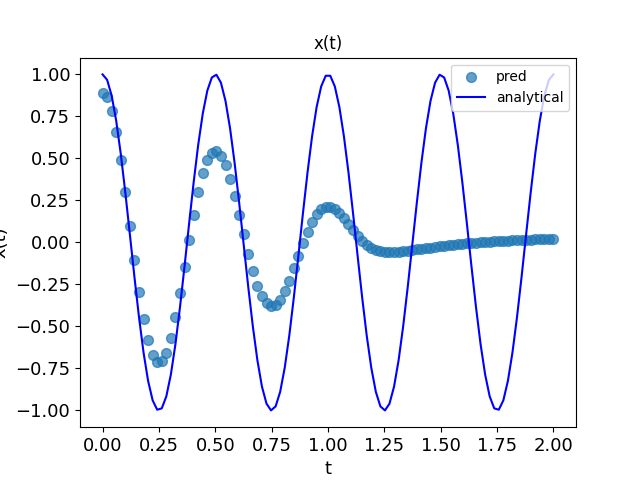
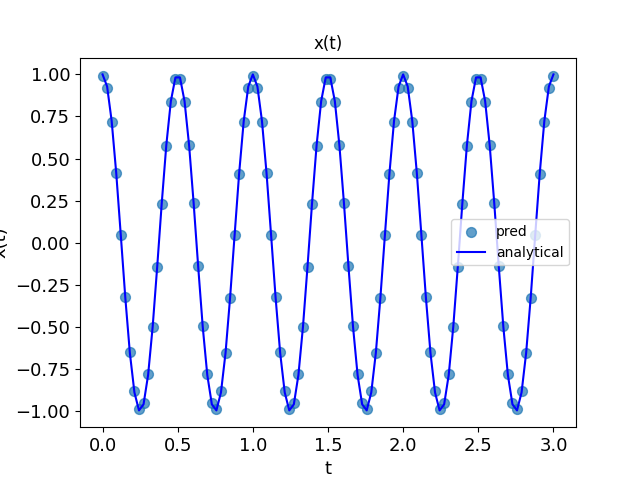
fourie added maybe)

diff --git a/equation_example.py b/equation_example.py
@@ -61,7 +61,7 @@ def printValue():
     x0_true = torch.tensor([1], dtype=float).float().to(device)
     dx0dt_true = torch.tensor([0], dtype=float).float().to(device)
 
-    t = torch.linspace(0, 2, 100).unsqueeze(-1).unsqueeze(0).to(device)
+    t = torch.linspace(0, 3, 100).unsqueeze(-1).unsqueeze(0).to(device)
     t.requires_grad = True
     x_pred = model(t.float())
 
@@ -73,22 +73,22 @@ def printValue():
 
     # Any further processing or printing with x_pred_np
 
-    # fs=13
-    # plt.scatter(t[0].cpu().detach().numpy(), x_pred[0].cpu().detach().numpy(), label='pred',
-    #             marker='o',
-    #             alpha=.7,
-    #             s=50)
-    # plt.plot(t[0].cpu().detach().numpy(),x_true[0].cpu().detach().numpy(),
-    #         color='blue',
-    #         label='analytical')
-    # plt.xlabel('t', fontsize=fs)
-    # plt.ylabel('x(t)', fontsize=fs)
-    # plt.xticks(fontsize=fs)
-    # plt.yticks(fontsize=fs)
-    # plt.legend()
-    # plt.title('x(t)')
-    # plt.savefig('x.png')
-    # plt.show()
+    fs=13
+    plt.scatter(t[0].cpu().detach().numpy(), x_pred[0].cpu().detach().numpy(), label='pred',
+                marker='o',
+                alpha=.7,
+                s=50)
+    plt.plot(t[0].cpu().detach().numpy(),x_true[0].cpu().detach().numpy(),
+            color='blue',
+            label='analytical')
+    plt.xlabel('t', fontsize=fs)
+    plt.ylabel('x(t)', fontsize=fs)
+    plt.xticks(fontsize=fs)
+    plt.yticks(fontsize=fs)
+    plt.legend()
+    plt.title('x(t)')
+    plt.savefig('x.png')
+    plt.show()
     return t_move, x_true_move, x_pred_move
 
 
@@ -100,11 +100,14 @@ def startTraining(input_size=1,
                   lr = 0.1,
                   left_brdr=0,
                   right_brdr=1,
-                  dot_cnt=100):
+                  dot_cnt=100,
+                  fourie=False,
+                  mapped_fourie=256):
     global model 
     # model = net.simpleModel(1, 1, 20, 100, loss_func=fullLoss, lr=0.1).to(device)
     model = net.simpleModel(input_size, output_size, hidden_size, 
-                            epoch=epoch, loss_func=fullLoss, lr=lr, loss=loss).to(device)
+                            epoch=epoch, loss_func=fullLoss, lr=lr, loss=loss,
+                            fourie=fourie, mapped_fourie=mapped_fourie).to(device)
 
 
     # t = (torch.linspace(0, 2, 100).unsqueeze(1)).to(device)
@@ -114,5 +117,5 @@ def startTraining(input_size=1,
     model.training_a(t)
 
 if __name__ == "__main__":
-    startTraining(right_brdr=2)
+    startTraining(right_brdr=2, fourie=True)
     printValue()

diff --git a/neural_network.py b/neural_network.py
@@ -1,3 +1,4 @@
+import rff.layers
 import torch
 import torch.nn as nn
 import numpy as np
@@ -6,6 +7,7 @@ import functools
 import matplotlib.pyplot as plt
 import torch.optim as optim
 import random
+import rff
 from torch.utils.data import Dataset, DataLoader
 from tqdm import tqdm
 from torch.utils.tensorboard import SummaryWriter
@@ -40,7 +42,9 @@ class simpleModel(nn.Module):
                 epoch=900,
                 loss=nn.MSELoss(),
                 loss_func=None,  # <- обновлено, чтобы loss_func работала корректно
-                lr=0.01):
+                lr=0.01,
+                fourie=False,
+                mapped_fourie=256):
         super().__init__()
         self.input_size = input_size
         self.output_size = output_size
@@ -49,9 +53,11 @@ class simpleModel(nn.Module):
         self.loss = loss
         self.loss_func = loss_func  # <- сохраняем loss_func для использования
         self.lr = lr
+        self.fourie=fourie
+        self.mapped_fourie = mapped_fourie
 
         self.layers_stack = nn.Sequential(
-            nn.Linear(input_size, hidden_size),
+            nn.Linear(2*mapped_fourie if fourie else input_size, hidden_size),
             nn.Tanh(),
             nn.Linear(hidden_size, hidden_size), #1
             nn.Tanh(),
@@ -66,6 +72,10 @@ class simpleModel(nn.Module):
         )
 
     def forward(self, x):
+        if(self.fourie):
+            encoding = rff.layers.PositionalEncoding(sigma=1.0, m=self.mapped_fourie)
+            xf = encoding(x)
+            return self.layers_stack(xf)
         return self.layers_stack(x)
     
     def training_a(self, t):
